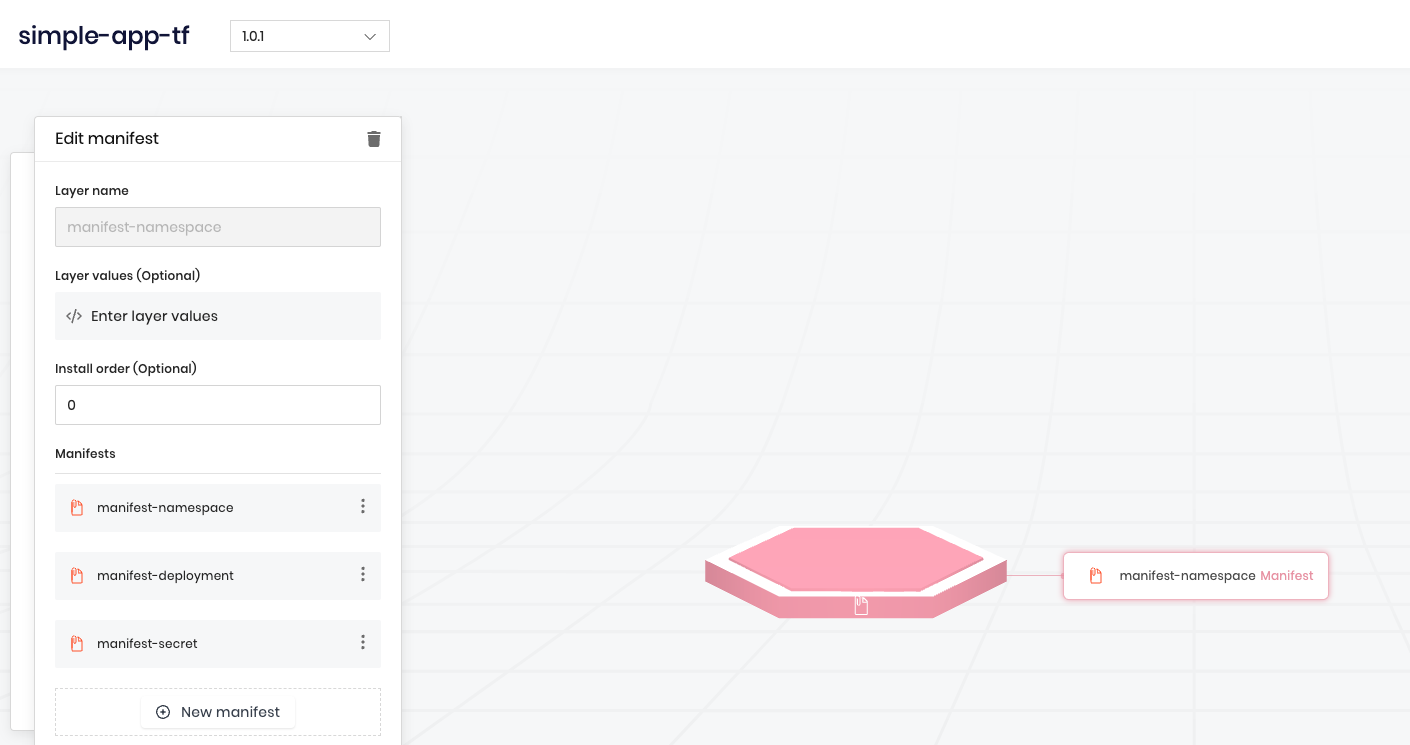
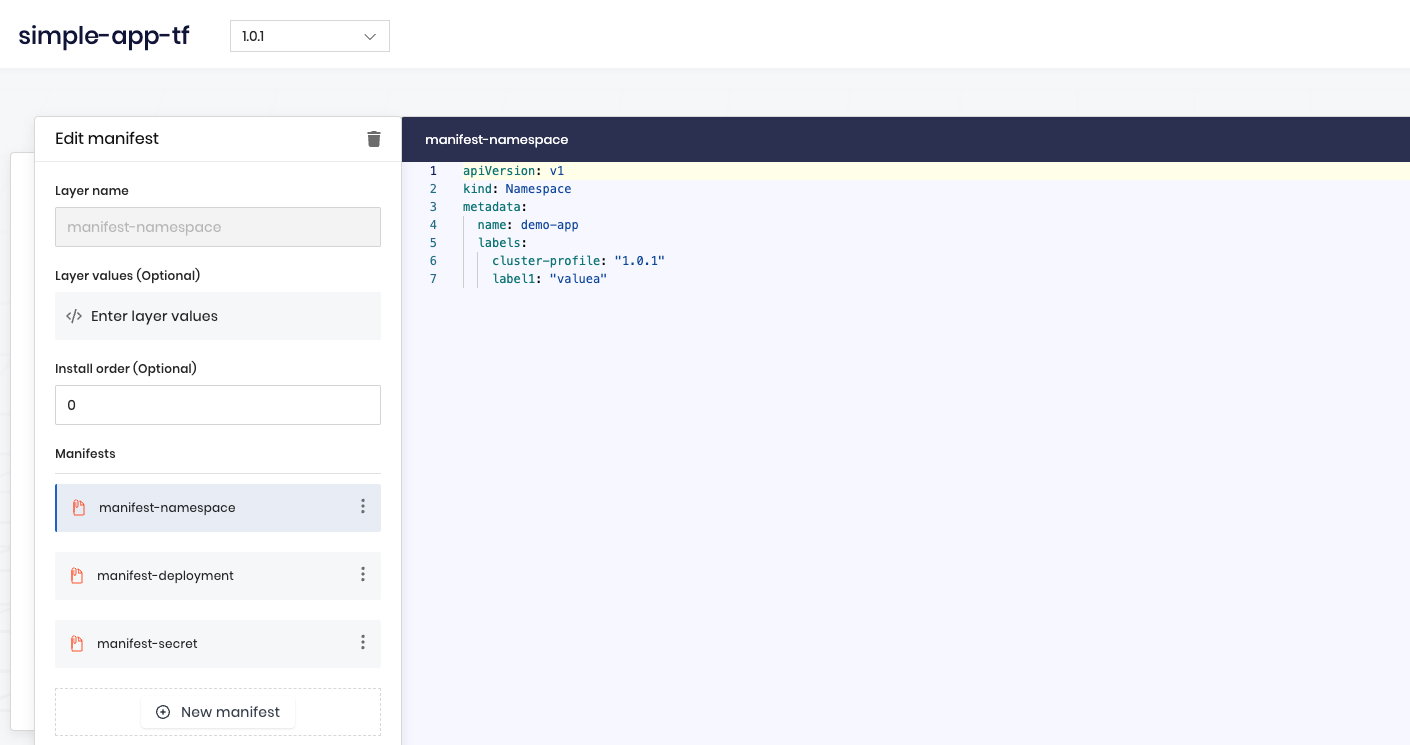
steps updated

diff --git a/README.md b/README.md
@@ -39,3 +39,12 @@ After creating all required secrets in the repository, go to **Actions** menu an
 
 Ensure corresponding cluster profile created:
 ![alt text](pictures/simple-app-tf-01.png)
+
+![alt text](spectro-dashboard-tf-01.png)
+
+
+Update manifest in `simple-app-manifests-profile/manifests`, push the changes and ensure changes has been applied to the profile. For example, changing label value for namespace in `simple-app-manifests-profile/manifests/namespace.yaml` triggers the worflow to update cluster profile in Palette:
+
+
+
+
